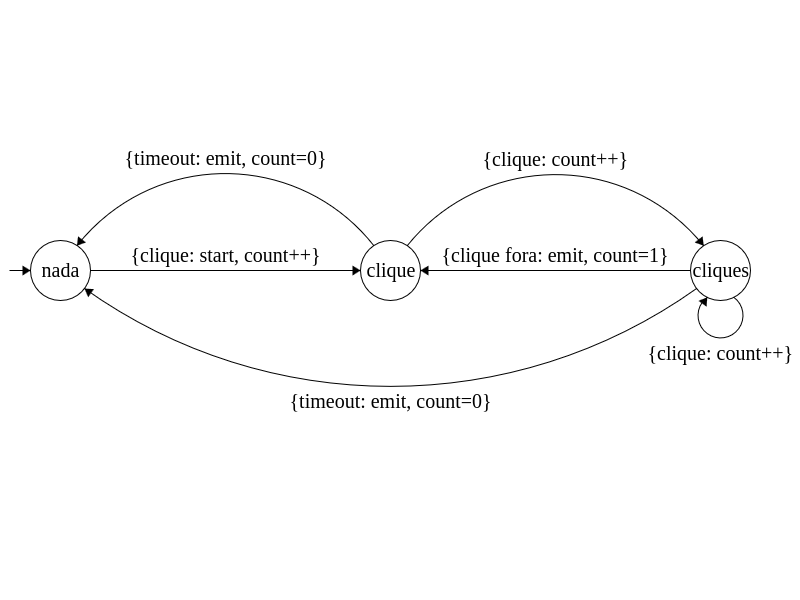
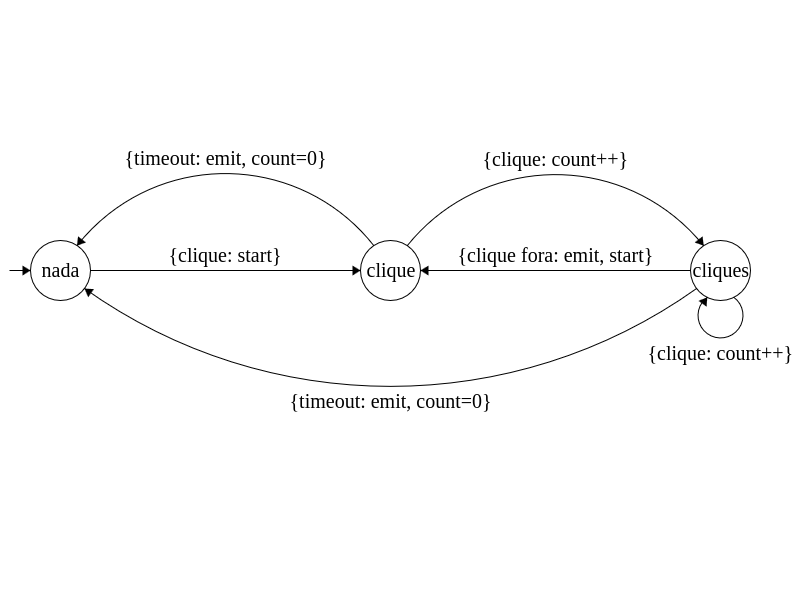
2.1: correção no autômato

Changed region(s): [[0.5625, 0.42, 0.8438, 0.45], [0.1562, 0.42, 0.4062, 0.45]]

diff --git a/ex/2.1/main.md b/ex/2.1/main.md
@@ -1,17 +1,17 @@
 O programa segue o que essa máquina de estados descreve:
 ![autômato](autômato.png)
 
-Um autômato finito estritamente falando teria estados demais para eu desenhar, a não ser que eu limitasse o número máximo de cliques (limitando a quantidade de cliques a 1 por milissegundo nos 250ms até o fim, seriam 251 estados).
+Um autômato finito propriamente dito teria estados demais para eu desenhar, a não ser que eu limitasse o número máximo de cliques (limitando a quantidade de cliques a 1 por milissegundo nos 250ms até o fim, seriam 251 estados).
 
 Legenda:
 - formato das transições: {símbolo: ação[, ação]\*} 
 - símbolos:
-    - timeout: 250ms passaram
+    - timeout: 250ms passaram desde o primeiro clique
     - clique: um clique numa certa posição
     - clique fora: um clique numa outra posição
 - ações:
     - count: a variável que conta os cliques
-    - start: salva a posição e horário do clique
+    - start: salva a posição e horário do clique, count = 1
     - emit: põe um evento com a quantidade atual de cliques na fila de eventos
 
 [falta escrever explicação melhor, sobre o código em si]
